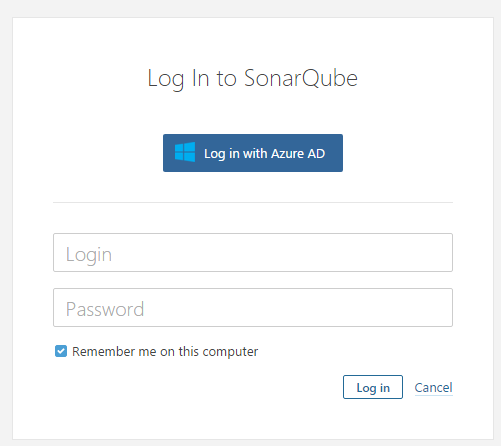
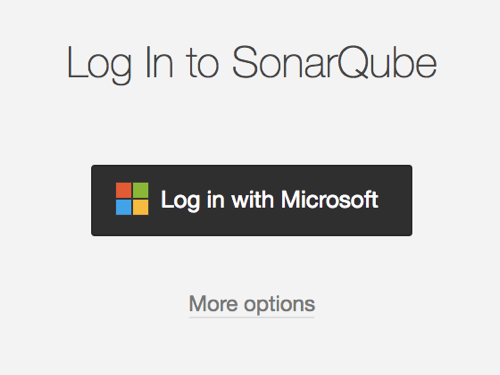
Update Readme
Update the Readme document with new button language and update the screenshot used to match the new branding.

diff --git a/README.md b/README.md
@@ -108,9 +108,9 @@ Installation and configurations
 
 	1.  Click **Save Authentication Settings**.
 
-	1.  Sign out and go to the log in form. A new button named "**Log in with Azure AD**" allows users to sign in with their Azure AD account.
+	1.  Sign out and go to the log in form. A new button named "**Log in with Microsoft**" allows users to sign in with their Azure AD account. For login with username and password, clicking "More options" reveals the login form.
 
-	![Login with Azure AD](./_img/loginwithAD.png)
+	![Login with Microsoft](./_img/loginwithAD.png)
 
 ### General Configurations
 
